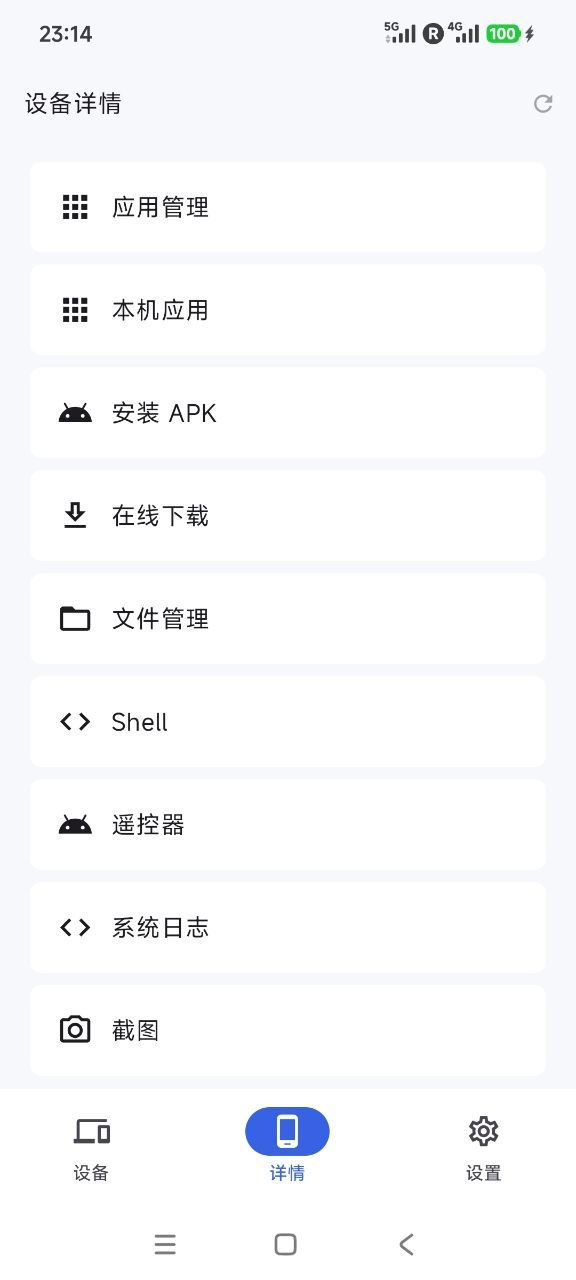
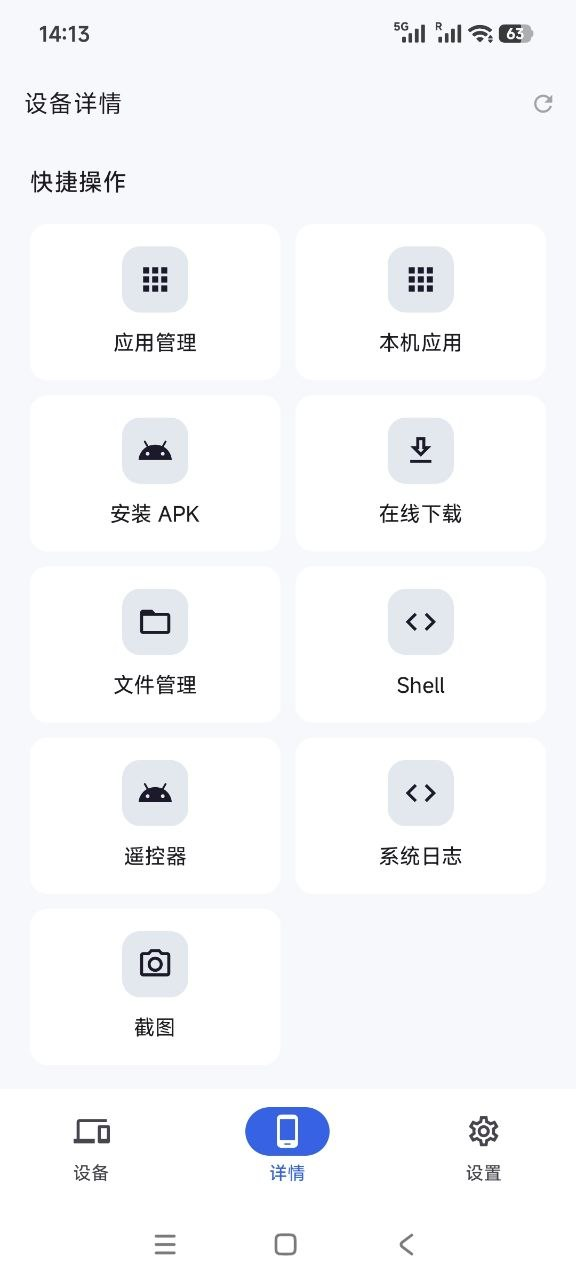
add

diff --git a/app/src/main/java/com/sky22333/skyadb/ui/device/DeviceScreen.kt b/app/src/main/java/com/sky22333/skyadb/ui/device/DeviceScreen.kt
@@ -157,7 +157,7 @@ private fun DeviceContent(
                                     fontWeight = FontWeight.SemiBold,
                                 )
                                 Text(
-                                    text = "连接设备后会显示完整系统信息",
+                                    text = "连接设备后可在下方查看系统信息",
                                     color = MaterialTheme.colorScheme.onSurfaceVariant,
                                     style = MaterialTheme.typography.bodyMedium,
                                 )